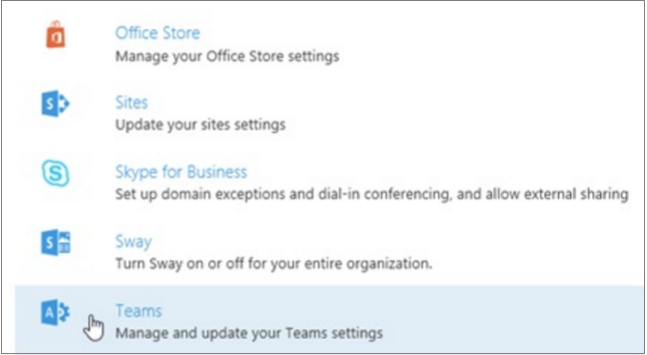
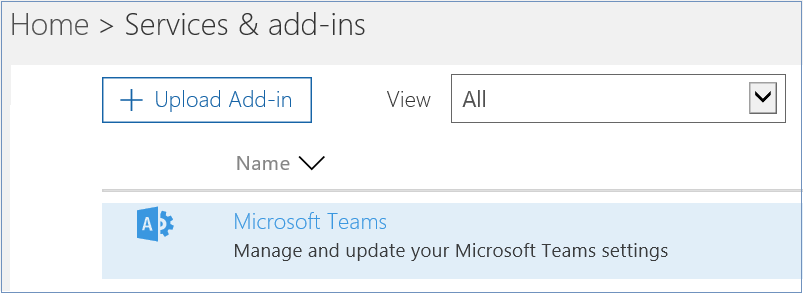
Updated screenshots

diff --git a/teams/setup.md b/teams/setup.md
@@ -24,6 +24,9 @@ Administrators need to use the Office 365 Admin Portal to enable Microsoft Teams
 1. [Sign in to Office 365](https://login.microsoftonline.com) with your work or school account.
 2. Select **Admin** to go to the Office 365 Admin Center.
 3. From **Settings**, select  **Services & add-ins**.
+
+	!["Screenshot of the settings tab, with Services and add-ins selected"](images/setup_services.png)
+
 4. From the list of services and add-ins, select **Teams**.
  
 	!["Screenshot of the services listed under settings, with the Teams service selected"](images/setup_select_teams.png)
